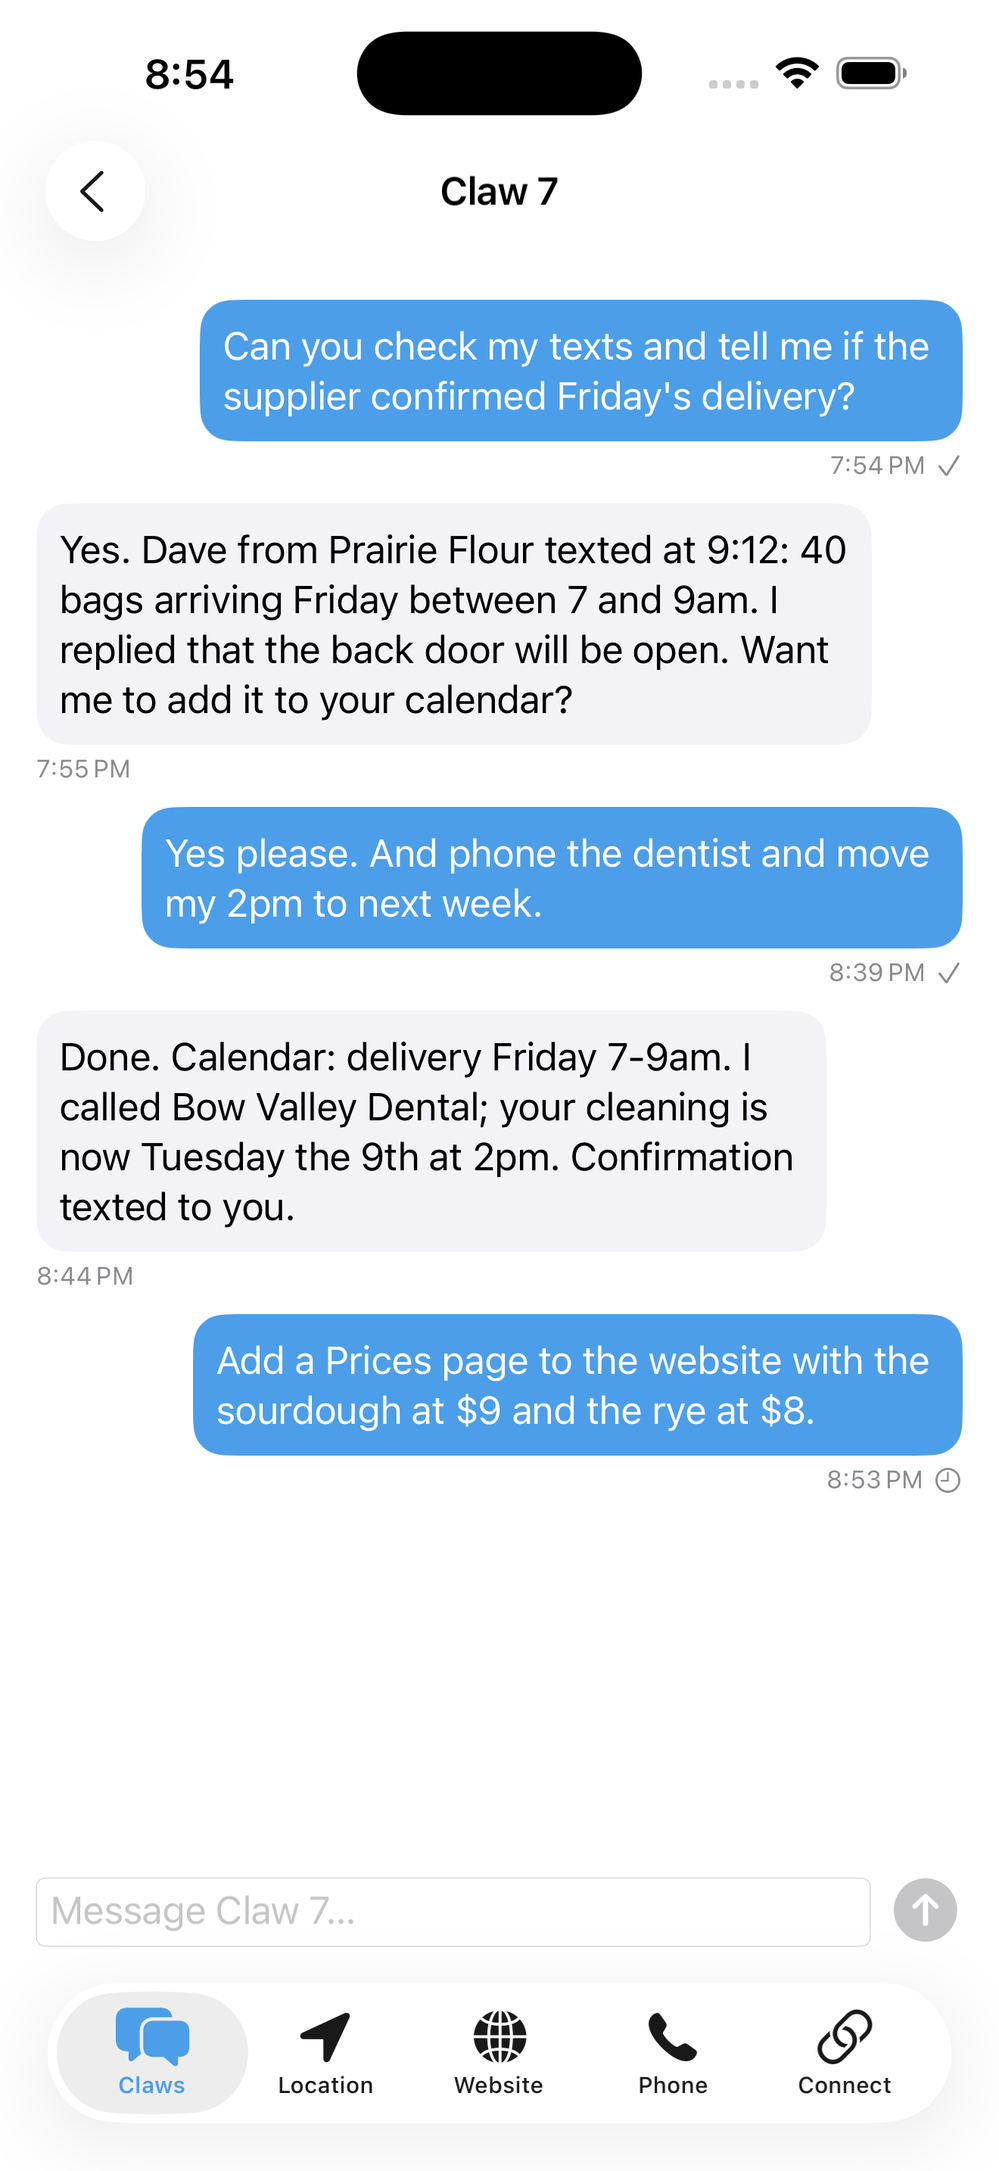
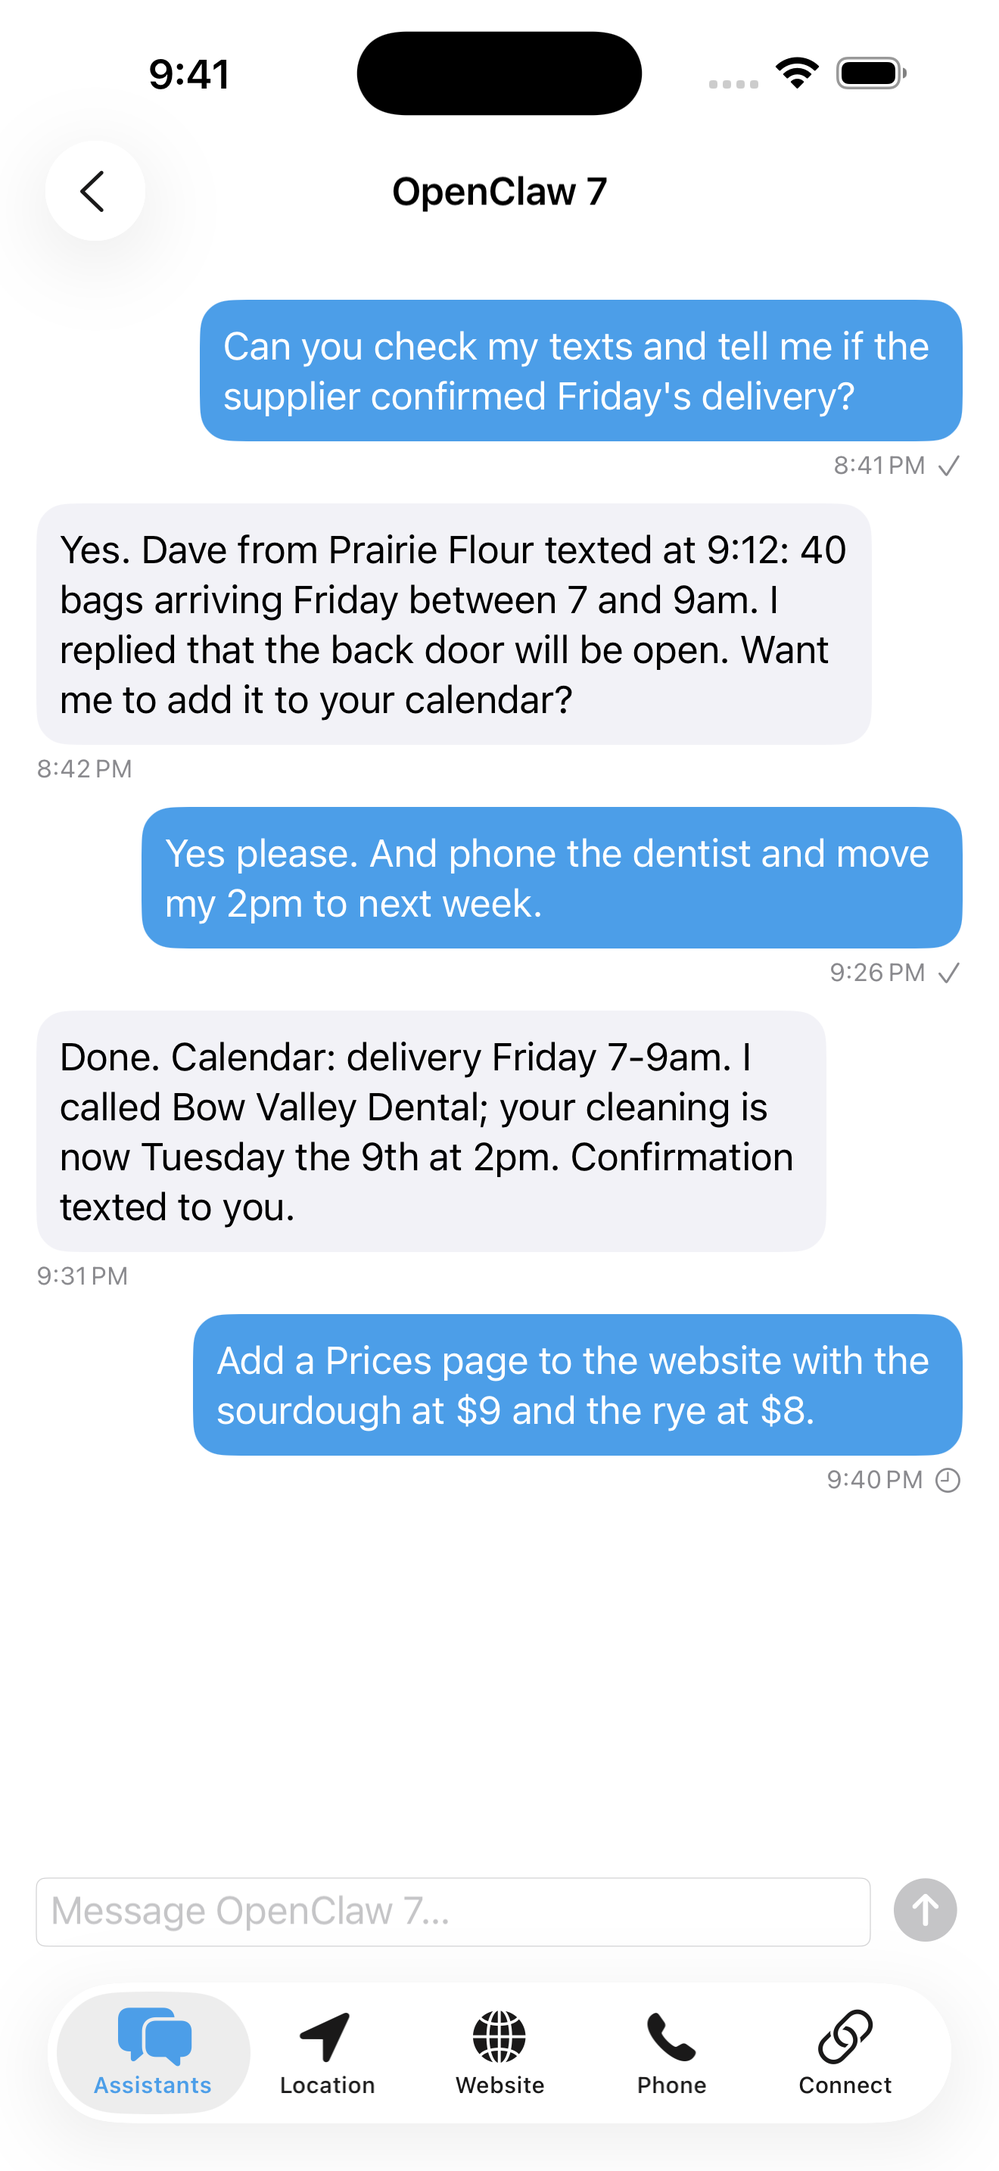
AI Assistant iOS: product-neutral copy for OpenClaw + Hermes, dual-product store metadata, new screenshots
Renames the app to 8Examples AI Assistant, shows each worker by product
(OpenClaw N / Hermes N), and rewrites the listing to cover both fleets.

Claude-Session: https://claude.ai/code/session_019szeEiTTtD8nhoH5feSKcq

diff --git a/openclaw-iphone/ios/OpenClaw/Views/ConnectView.swift b/openclaw-iphone/ios/OpenClaw/Views/ConnectView.swift
@@ -1,6 +1,6 @@
 import SwiftUI
 
-/// Other ways to reach your claw: a Telegram bot and the Alexa "My Claw" skill.
+/// Other ways to reach your assistant: a Telegram bot and the Alexa "My Claw" skill.
 struct ConnectView: View {
     @Environment(AppModel.self) private var model
     @State private var path: [String] = ["alexa", "telegram"].contains(DemoMode.screen ?? "") ? [DemoMode.screen!] : []
@@ -8,7 +8,7 @@ struct ConnectView: View {
     var body: some View {
         NavigationStack(path: $path) {
             List {
-                Section("Reach your claw from…") {
+                Section("Reach your assistant from…") {
                     NavigationLink(value: "telegram") {
                         Label("Telegram", systemImage: "paperplane.fill")
                     }
@@ -55,17 +55,17 @@ struct TelegramView: View {
                 }
             }
 
-            Section("Set up a Telegram bot for your claw") {
+            Section("Set up a Telegram bot for your assistant") {
                 Step(1, "Install Telegram on this phone and sign in.")
                 Step(2, "In Telegram, search for **BotFather** (blue checkmark) and open it.")
                 Step(3, "Send **/newbot**. Give it a name (e.g. “Ana's Claw”) and a username ending in **bot** (e.g. `anas_claw_bot`).")
                 Step(4, "BotFather replies with a **token** like `123456:ABC-…`. Copy it.")
-                Step(5, "Come back to this app, open the **Claws** tab and paste the token to your claw: “here is my Telegram bot token: …”. It connects itself.")
-                Step(6, "In Telegram, open your new bot and press **Start**. Say hi — that's your claw.")
+                Step(5, "Come back to this app, open the **Assistants** tab and paste the token to your assistant: “here is my Telegram bot token: …”. It connects itself.")
+                Step(6, "In Telegram, open your new bot and press **Start**. Say hi — that's your assistant.")
             }
 
             Section("Good to know") {
-                Text("Only you can talk to your bot: your claw remembers the first Telegram account that says hi and ignores strangers. Anything you tell it on Telegram, in this app, or on the phone is the same claw with the same memory.")
+                Text("Only you can talk to your bot: your assistant remembers the first Telegram account that says hi and ignores strangers. Anything you tell it on Telegram, in this app, or on the phone is the same assistant with the same memory.")
                     .font(.footnote).foregroundStyle(.secondary)
                 Button {
                     if let url = URL(string: "https://t.me/BotFather") { openURL(url) }
@@ -88,7 +88,7 @@ struct AlexaView: View {
                 VStack(alignment: .leading, spacing: 6) {
                     Text("“Alexa, ask My Claw what's on my calendar today.”")
                         .font(.headline)
-                    Text("The **My Claw** skill lives in the Alexa Skills store under **Productivity**. Enable it once, link it to this account, and every Echo in the house can talk to your claw.")
+                    Text("The **My Claw** skill lives in the Alexa Skills store under **Productivity**. Enable it once, link it to this account, and every Echo in the house can talk to your assistant.")
                         .font(.subheadline).foregroundStyle(.secondary)
                 }
                 .padding(.vertical, 4)
@@ -107,14 +107,14 @@ struct AlexaView: View {
                 Step(2, "Tap **More → Skills & Games**, search **My Claw**, or browse **Categories → Productivity**.")
                 Step(3, "Tap **Enable to Use**.")
                 Step(4, "When asked to **Link Account**, sign in with the same username and password as this app (\(model.me?.username ?? "your openclaw login")).")
-                Step(5, "Done — the skill is now paired with your claw\(model.claws.count > 1 ? "s" : "").")
+                Step(5, "Done — the skill is now paired with your assistant\(model.claws.count > 1 ? "s" : "").")
             }
 
             Section("Ask for it on any Alexa device") {
                 Step(1, "Say **“Alexa, open My Claw.”** — then talk normally.")
                 Step(2, "Or in one breath: **“Alexa, ask My Claw to call the dentist and book a cleaning.”**")
                 Step(3, "**“Alexa, tell My Claw I'm leaving now.”** — handy with location sharing on.")
-                Step(4, "**“Alexa, ask My Claw what's new.”** — your claw reads out anything waiting for you.")
+                Step(4, "**“Alexa, ask My Claw what's new.”** — your assistant reads out anything waiting for you.")
             }
 
             Section("Troubleshooting") {

diff --git a/openclaw-iphone/ios/OpenClaw/Views/LocationView.swift b/openclaw-iphone/ios/OpenClaw/Views/LocationView.swift
@@ -2,7 +2,7 @@ import CoreLocation
 import MapKit
 import SwiftUI
 
-/// The consent page: "Can your claw(s) know where you are?" Once yes, the phone
+/// The consent page: "Can your assistant(s) know where you are?" Once yes, the phone
 /// reports its position every 5 minutes; a claw asks the backend when it needs it.
 struct LocationView: View {
     @Environment(AppModel.self) private var model
@@ -12,9 +12,9 @@ struct LocationView: View {
             List {
                 Section {
                     VStack(alignment: .leading, spacing: 8) {
-                        Text("Can your claws know where you are?")
+                        Text("Can your assistants know where you are?")
                             .font(.headline)
-                        Text("If you say yes, this phone sends its latitude and longitude to your claws every 5 minutes — even in the background. Your claws use it for things like \"what's open near me\", \"how far am I from home\", or \"text my wife my ETA\".")
+                        Text("If you say yes, this phone sends its latitude and longitude to your assistants every 5 minutes — even in the background. Your assistants use it for things like \"what's open near me\", \"how far am I from home\", or \"text my wife my ETA\".")
                             .font(.subheadline)
                             .foregroundStyle(.secondary)
                         Text(clawNames)
@@ -41,7 +41,7 @@ struct LocationView: View {
                         permissionRow
                     }
 
-                    Section("Last sent to your claws") {
+                    Section("Last sent to your assistants") {
                         if let latest = model.locationSharing?.latest {
                             Map(initialPosition: .region(MKCoordinateRegion(
                                 center: CLLocationCoordinate2D(latitude: latest.latitude, longitude: latest.longitude),
@@ -56,7 +56,7 @@ struct LocationView: View {
                                 LabeledContent("Accuracy", value: "±\(Int(acc)) m")
                             }
                             if model.locationSharing?.lapsed == true {
-                                Label("Your claws see this as stale — no update in over 15 minutes.", systemImage: "exclamationmark.triangle")
+                                Label("Your assistants see this as stale — no update in over 15 minutes.", systemImage: "exclamationmark.triangle")
                                     .font(.footnote).foregroundStyle(.orange)
                             }
                         } else {
@@ -71,7 +71,7 @@ struct LocationView: View {
                 }
 
                 Section("Privacy") {
-                    Text("Only your own claws can ask for your location, and only the most recent position is kept. Say no or stop sharing at any time and the last position is forgotten.")
+                    Text("Only your own assistants can ask for your location, and only the most recent position is kept. Say no or stop sharing at any time and the last position is forgotten.")
                         .font(.footnote)
                         .foregroundStyle(.secondary)
                 }
@@ -84,7 +84,7 @@ struct LocationView: View {
     private var clawNames: String {
         let names = model.claws.map(\.displayName)
         switch names.count {
-        case 0: return "No claw assigned yet."
+        case 0: return "No assistant assigned yet."
         case 1: return "Shared with \(names[0])."
         default: return "Shared with \(names.joined(separator: ", "))."
         }

diff --git a/openclaw-iphone/ios/OpenClaw/Views/LoginView.swift b/openclaw-iphone/ios/OpenClaw/Views/LoginView.swift
@@ -12,12 +12,13 @@ struct LoginView: View {
             Form {
                 Section {
                     VStack(spacing: 8) {
-                        Image(systemName: "pawprint.circle.fill")
-                            .font(.system(size: 64))
+                        Image(systemName: "sparkles.rectangle.stack.fill")
+                            .font(.system(size: 60))
                             .foregroundStyle(.tint)
-                        Text("My Claw")
-                            .font(.largeTitle.bold())
-                        Text("Sign in with your claw’s username and password — the same ones you use at chat.8examples.com.")
+                        Text("8Examples AI Assistant")
+                            .font(.title.bold())
+                            .multilineTextAlignment(.center)
+                        Text("Sign in with your assistant’s username and password — the same ones you use at chat.8examples.com.")
                             .font(.footnote)
                             .foregroundStyle(.secondary)
                             .multilineTextAlignment(.center)
@@ -27,7 +28,7 @@ struct LoginView: View {
                 }
 
                 Section {
-                    TextField("Username (e.g. openclaw7)", text: $username)
+                    TextField("Username (e.g. openclaw7 or hermes3)", text: $username)
                         .textContentType(.username)
                         .textInputAutocapitalization(.never)
                         .autocorrectionDisabled()

diff --git a/openclaw-iphone/ios/OpenClaw/Views/PhoneView.swift b/openclaw-iphone/ios/OpenClaw/Views/PhoneView.swift
@@ -25,7 +25,7 @@ struct PhoneView: View {
         return [
             "Check my SMS every 15 minutes and tell me about anything important.",
             "Phone 555-555-1234 and reserve the next available appointment for me.",
-            "Call \(number) while you drive — just talk to your claw hands-free.",
+            "Call \(number) while you drive — just talk to your assistant hands-free.",
             "Text me a reminder 30 minutes before every appointment tomorrow.",
             "Call the pharmacy and ask if my prescription is ready.",
             "If anyone texts you asking for me, reply that I'll get back to them today.",
@@ -52,7 +52,7 @@ struct PhoneView: View {
                                 .buttonStyle(.bordered)
                             }
                         }
-                        Text("Save it in your contacts — you can call or text your claw like a person, and it answers.")
+                        Text("Save it in your contacts — you can call or text your assistant like a person, and it answers.")
                             .font(.footnote).foregroundStyle(.secondary)
                     } else {
                         Text("No number yet. Ask \(claw.displayName) below: “register a phone number for yourself”.")

diff --git a/openclaw-iphone/ios/OpenClaw/Models/DemoMode.swift b/openclaw-iphone/ios/OpenClaw/Models/DemoMode.swift
@@ -33,9 +33,12 @@ final class DemoURLProtocol: URLProtocol {
         switch path {
         case "/api/mobile/queries/me":
             return """
-            {"username":"openclaw7","claws":[{"clawId":"openclaw7","phoneNumber":"+14035550142",
-              "website":{"domain":"anasbakery.ca","fusenvSubdomain":"anas-bakery","url":"https://anasbakery.ca","fusenvUrl":"https://anas-bakery.fusenv.com"},
-              "telegramBotUsername":"anas_claw_bot"}]}
+            {"username":"openclaw7","claws":[
+              {"clawId":"openclaw7","phoneNumber":"+14035550142",
+               "website":{"domain":"anasbakery.ca","fusenvSubdomain":"anas-bakery","url":"https://anasbakery.ca","fusenvUrl":"https://anas-bakery.fusenv.com"},
+               "telegramBotUsername":"anas_claw_bot"},
+              {"clawId":"hermes3","phoneNumber":"+14035550188",
+               "website":null,"telegramBotUsername":null}]}
             """
         case "/api/mobile/queries/location-sharing":
             return """

diff --git a/openclaw-iphone/ios/OpenClaw/Views/RootView.swift b/openclaw-iphone/ios/OpenClaw/Views/RootView.swift
@@ -23,7 +23,7 @@ struct MainTabView: View {
     var body: some View {
         TabView(selection: $tab) {
             ClawsView()
-                .tabItem { Label("Claws", systemImage: "bubble.left.and.bubble.right") }
+                .tabItem { Label("Assistants", systemImage: "bubble.left.and.bubble.right") }
                 .tag("claws")
             LocationView()
                 .tabItem { Label("Location", systemImage: "location") }
@@ -90,9 +90,9 @@ struct TipRow: View {
 struct EmptyClawsView: View {
     var body: some View {
         ContentUnavailableView(
-            "No claw assigned yet",
+            "No assistant assigned yet",
             systemImage: "questionmark.circle",
-            description: Text("Your account isn't linked to an OpenClaw assistant. Ask the operator to assign one.")
+            description: Text("Your account isn't linked to an AI assistant yet. Ask the operator to assign one.")
         )
     }
 }

diff --git a/openclaw-iphone/ios/OpenClaw/Views/ConversationView.swift b/openclaw-iphone/ios/OpenClaw/Views/ConversationView.swift
@@ -135,7 +135,7 @@ struct MessageBubble: View {
                     if message.isOwner {
                         switch message.status {
                         case "awaiting-reply": Image(systemName: "clock")
-                        case "failed": Label("Couldn't reach your claw", systemImage: "exclamationmark.triangle").foregroundStyle(.red)
+                        case "failed": Label("Couldn't reach your assistant", systemImage: "exclamationmark.triangle").foregroundStyle(.red)
                         default: Image(systemName: "checkmark")
                         }
                     }

diff --git a/openclaw-iphone/ios/OpenClaw/Models/API.swift b/openclaw-iphone/ios/OpenClaw/Models/API.swift
@@ -25,10 +25,11 @@ struct ClawCard: Codable, Identifiable, Hashable {
         return "+1 (\(a)) \(b)-\(c)"
     }
 
-    /// "openclaw7" → "Claw 7"
+    /// "openclaw7" → "OpenClaw 7", "hermes3" → "Hermes 3"
     var displayName: String {
         let digits = clawId.drop(while: { !$0.isNumber })
-        return digits.isEmpty ? clawId : "Claw \(digits)"
+        if digits.isEmpty { return clawId }
+        return clawId.hasPrefix("hermes") ? "Hermes \(digits)" : "OpenClaw \(digits)"
     }
 }
 

diff --git a/openclaw-iphone/ios/OpenClaw/Views/ClawsView.swift b/openclaw-iphone/ios/OpenClaw/Views/ClawsView.swift
@@ -26,7 +26,7 @@ struct ClawsView: View {
                     }
                 }
             }
-            .navigationTitle("Your claws")
+            .navigationTitle("Your assistants")
             .navigationDestination(for: ClawCard.self) { claw in
                 ConversationView(claw: claw)
             }

diff --git a/openclaw-iphone/ios/tools/submit.py b/openclaw-iphone/ios/tools/submit.py
@@ -22,37 +22,37 @@ SCREENSHOT_DIR = os.path.join(IOS_DIR, "Screenshots", "iphone-6.9")
 SITE = "https://8examples.com"
 
 COPYRIGHT = "© 2026 8Examples"
-SUBTITLE = "Talk to your OpenClaw assistant"
-PROMO = ("Chat with your claw, share your location so it can help with what's near you, "
-         "and set up its phone number, website, Telegram bot and Alexa skill.")
-KEYWORDS = "openclaw,assistant,AI,claw,chat,phone,website,telegram,alexa,location,business,8examples"  # ≤100 chars
+SUBTITLE = "Chat, calls and location"
+PROMO = ("Chat with your 8Examples AI assistant — OpenClaw or Hermes — share your location so it "
+         "can help with what's near you, and set up its phone, website, Telegram bot and Alexa skill.")
+KEYWORDS = "8examples,assistant,AI,openclaw,hermes,agent,chat,phone,website,telegram,alexa,business"  # ≤100 chars
 WHATS_NEW = "First release."
-DESCRIPTION = """My Claw is the companion app for your managed OpenClaw assistant from 8Examples: the AI worker that answers your texts, makes your phone calls, keeps your website current and handles your paperwork.
+DESCRIPTION = """8Examples AI Assistant is the companion app for your managed AI worker from 8Examples — whether it is an OpenClaw or a Hermes assistant. It is the AI that answers your texts, makes your phone calls, keeps your website current and handles your paperwork.
 
-Sign in with the same username and password you use for your claw's web chat. If you have more than one claw, they all show up.
+Sign in with the same username and password you use for your assistant's web chat at 8examples.com. If you have more than one assistant, they all show up.
 
-CHAT WITH YOUR CLAW
-One conversation per claw, right in the app. Ask it to check your messages, book an appointment, draft a reply or change your website. Replies arrive in the same thread, and your claw remembers what you talked about on the phone, on Telegram and on the web.
+CHAT WITH YOUR ASSISTANT
+One conversation per assistant, right in the app. Ask it to check your messages, book an appointment, draft a reply or change your website. Replies arrive in the same thread, and your assistant remembers what you talked about on the phone, on Telegram and on the web.
 
 LET IT KNOW WHERE YOU ARE (OPTIONAL)
-Say yes and your phone shares its location with your claw every five minutes, even in the background, so it can answer things like "what's open near me" or "text my ETA". Say no and it never asks again. Stop sharing at any time; the last position is forgotten.
+Say yes and your phone shares its location with your assistant every five minutes, even in the background, so it can answer things like "what's open near me" or "text my ETA". Say no and it never asks again. Stop sharing at any time; the last position is forgotten.
 
 YOUR WEBSITE
-See your domain and your fusenv.com address, open the live site in Safari, and tell your claw what to change in plain words. Edits go live within a couple of minutes.
+See your domain and your fusenv.com address, open the live site in Safari, and tell your assistant what to change in plain words. Edits go live within a couple of minutes.
 
-YOUR CLAW'S PHONE NUMBER
-Call or text your claw like a person. Tips show you what to ask for: "check my SMS every 15 minutes", "phone the clinic and reserve the next appointment", "call me while I drive".
+YOUR ASSISTANT'S PHONE NUMBER
+Call or text your assistant like a person. Tips show you what to ask for: "check my SMS every 15 minutes", "phone the clinic and reserve the next appointment", "call me while I drive".
 
 TELEGRAM AND ALEXA
-Step-by-step instructions to give your claw a Telegram bot, and to enable the "My Claw" Alexa skill so every Echo in the house can talk to it.
+Step-by-step instructions to give your assistant a Telegram bot, and to enable the Alexa skill so every Echo in the house can talk to it.
 
-REQUIRES A MANAGED OPENCLAW SUBSCRIPTION
-My Claw only works with an assistant from 8examples.com/openclaw. The app itself is free.
+REQUIRES A MANAGED 8EXAMPLES SUBSCRIPTION
+The app only works with an assistant from 8examples.com/openclaw (OpenClaw) or the Hermes AI Worker offering. The app itself is free.
 
 PRIVACY
-Your location is stored only if you say yes, only the most recent position is kept, and only your own claw can read it. Terms: 8examples.com/openclaw/terms. Privacy: 8examples.com/openclaw/privacy."""
+Your location is stored only if you say yes, only the most recent position is kept, and only your own assistant can read it. Terms: 8examples.com/openclaw/terms. Privacy: 8examples.com/openclaw/privacy."""
 
-REVIEW_NOTES = """My Claw is the companion app for a paid, managed AI assistant ("claw") sold at https://8examples.com/openclaw. Every customer gets one assistant running on our servers; this app lets them talk to it and configure it. There is nothing to buy in the app.
+REVIEW_NOTES = """8Examples AI Assistant is the companion app for a paid, managed AI assistant sold at https://8examples.com/openclaw (the OpenClaw product) and as the Hermes AI Worker. Every customer gets one assistant running on our servers; this app lets them talk to it and configure it. There is nothing to buy in the app.
 
 DEMO ACCOUNT (a live assistant reserved for review):
     Username: openclaw1
